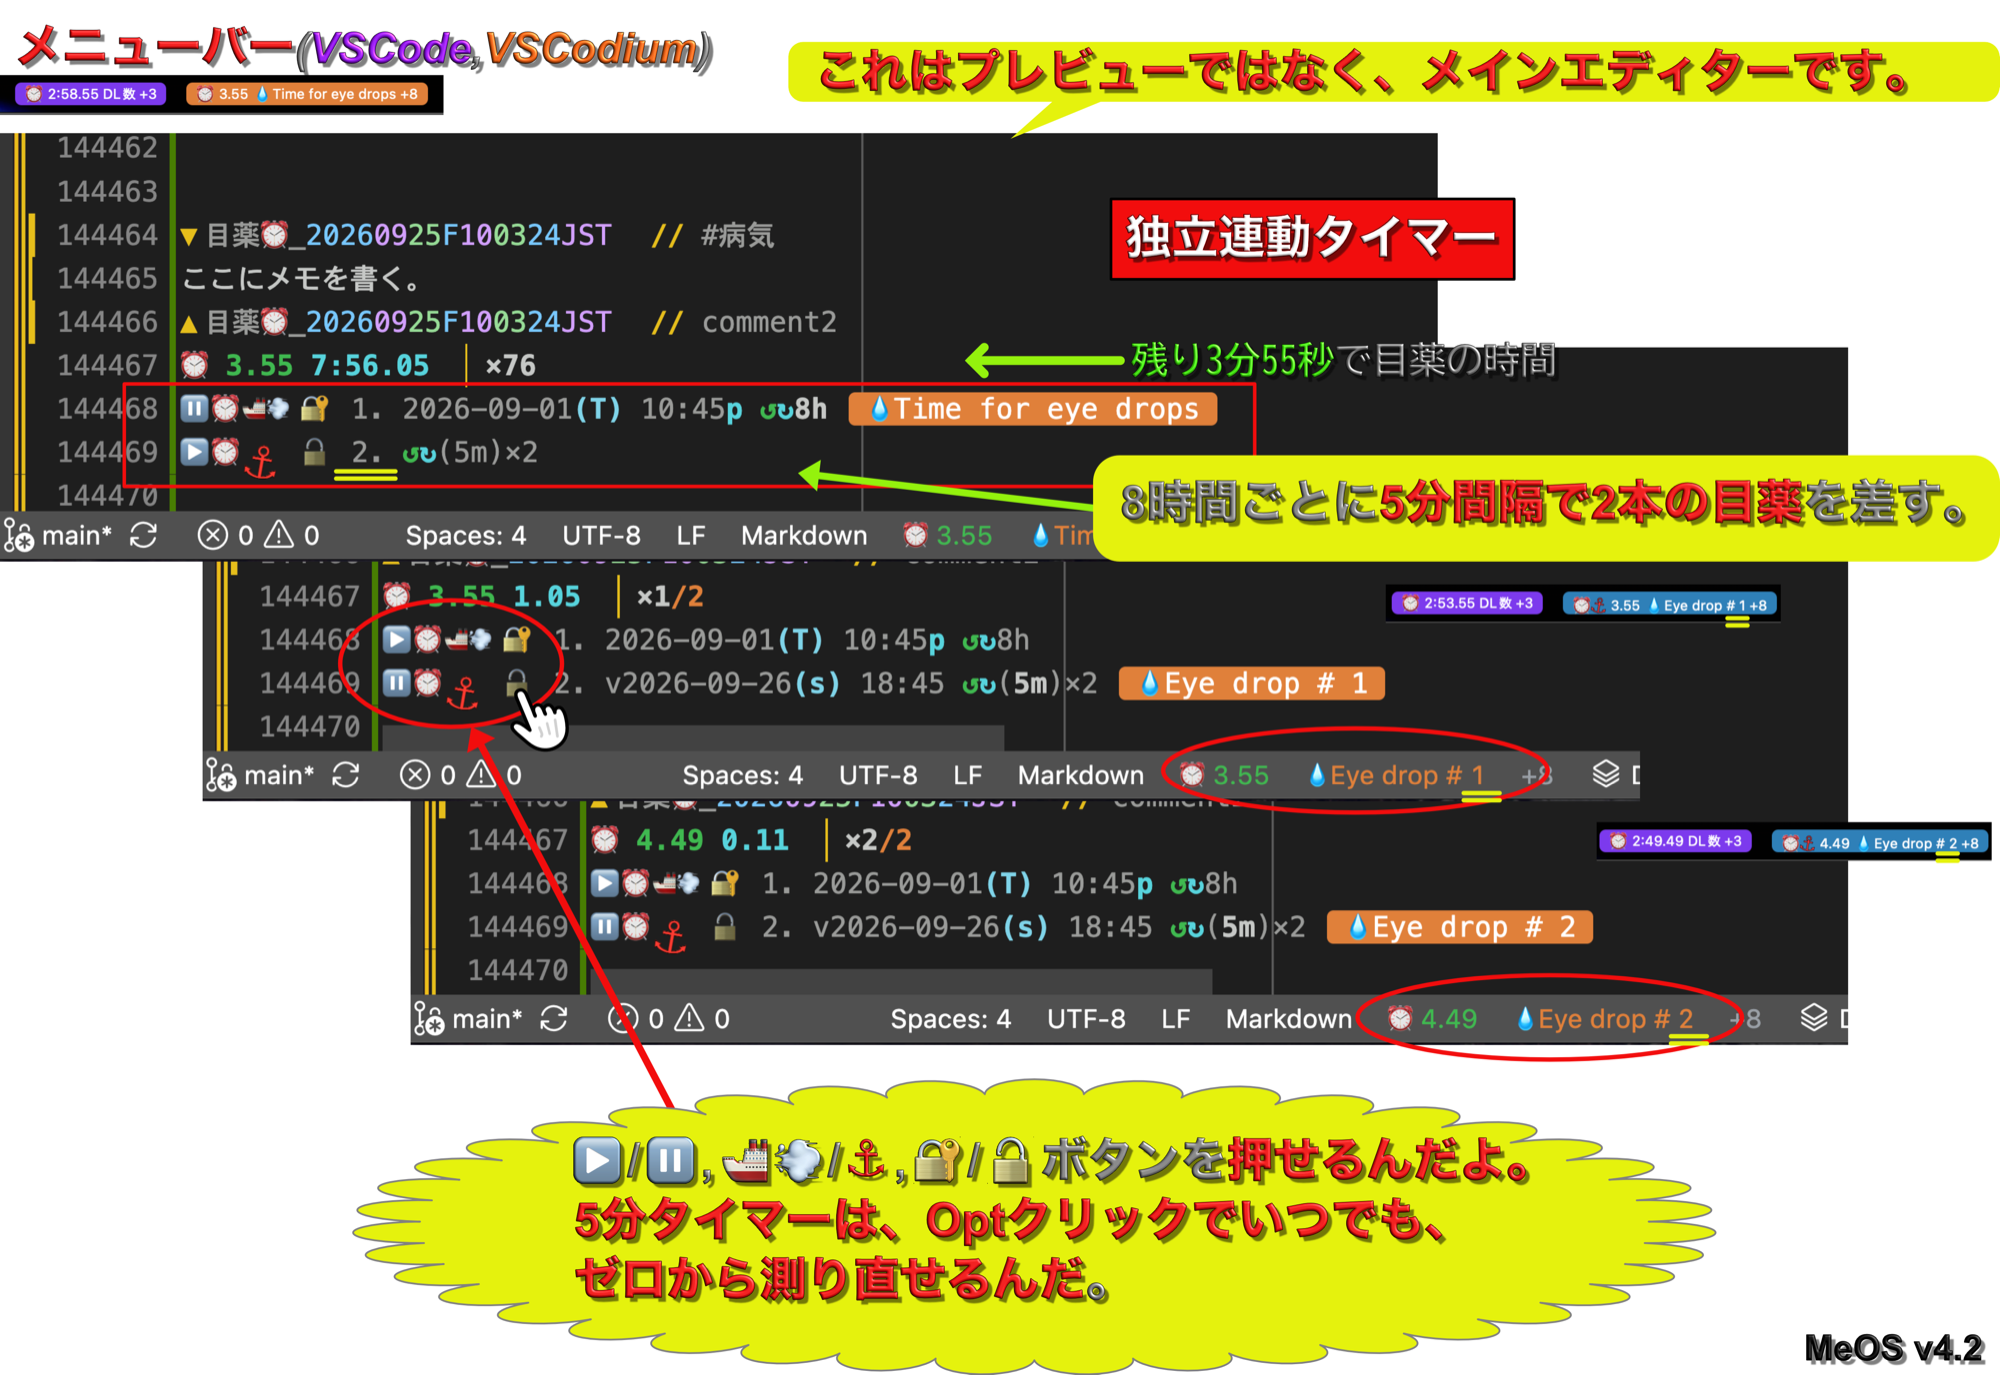
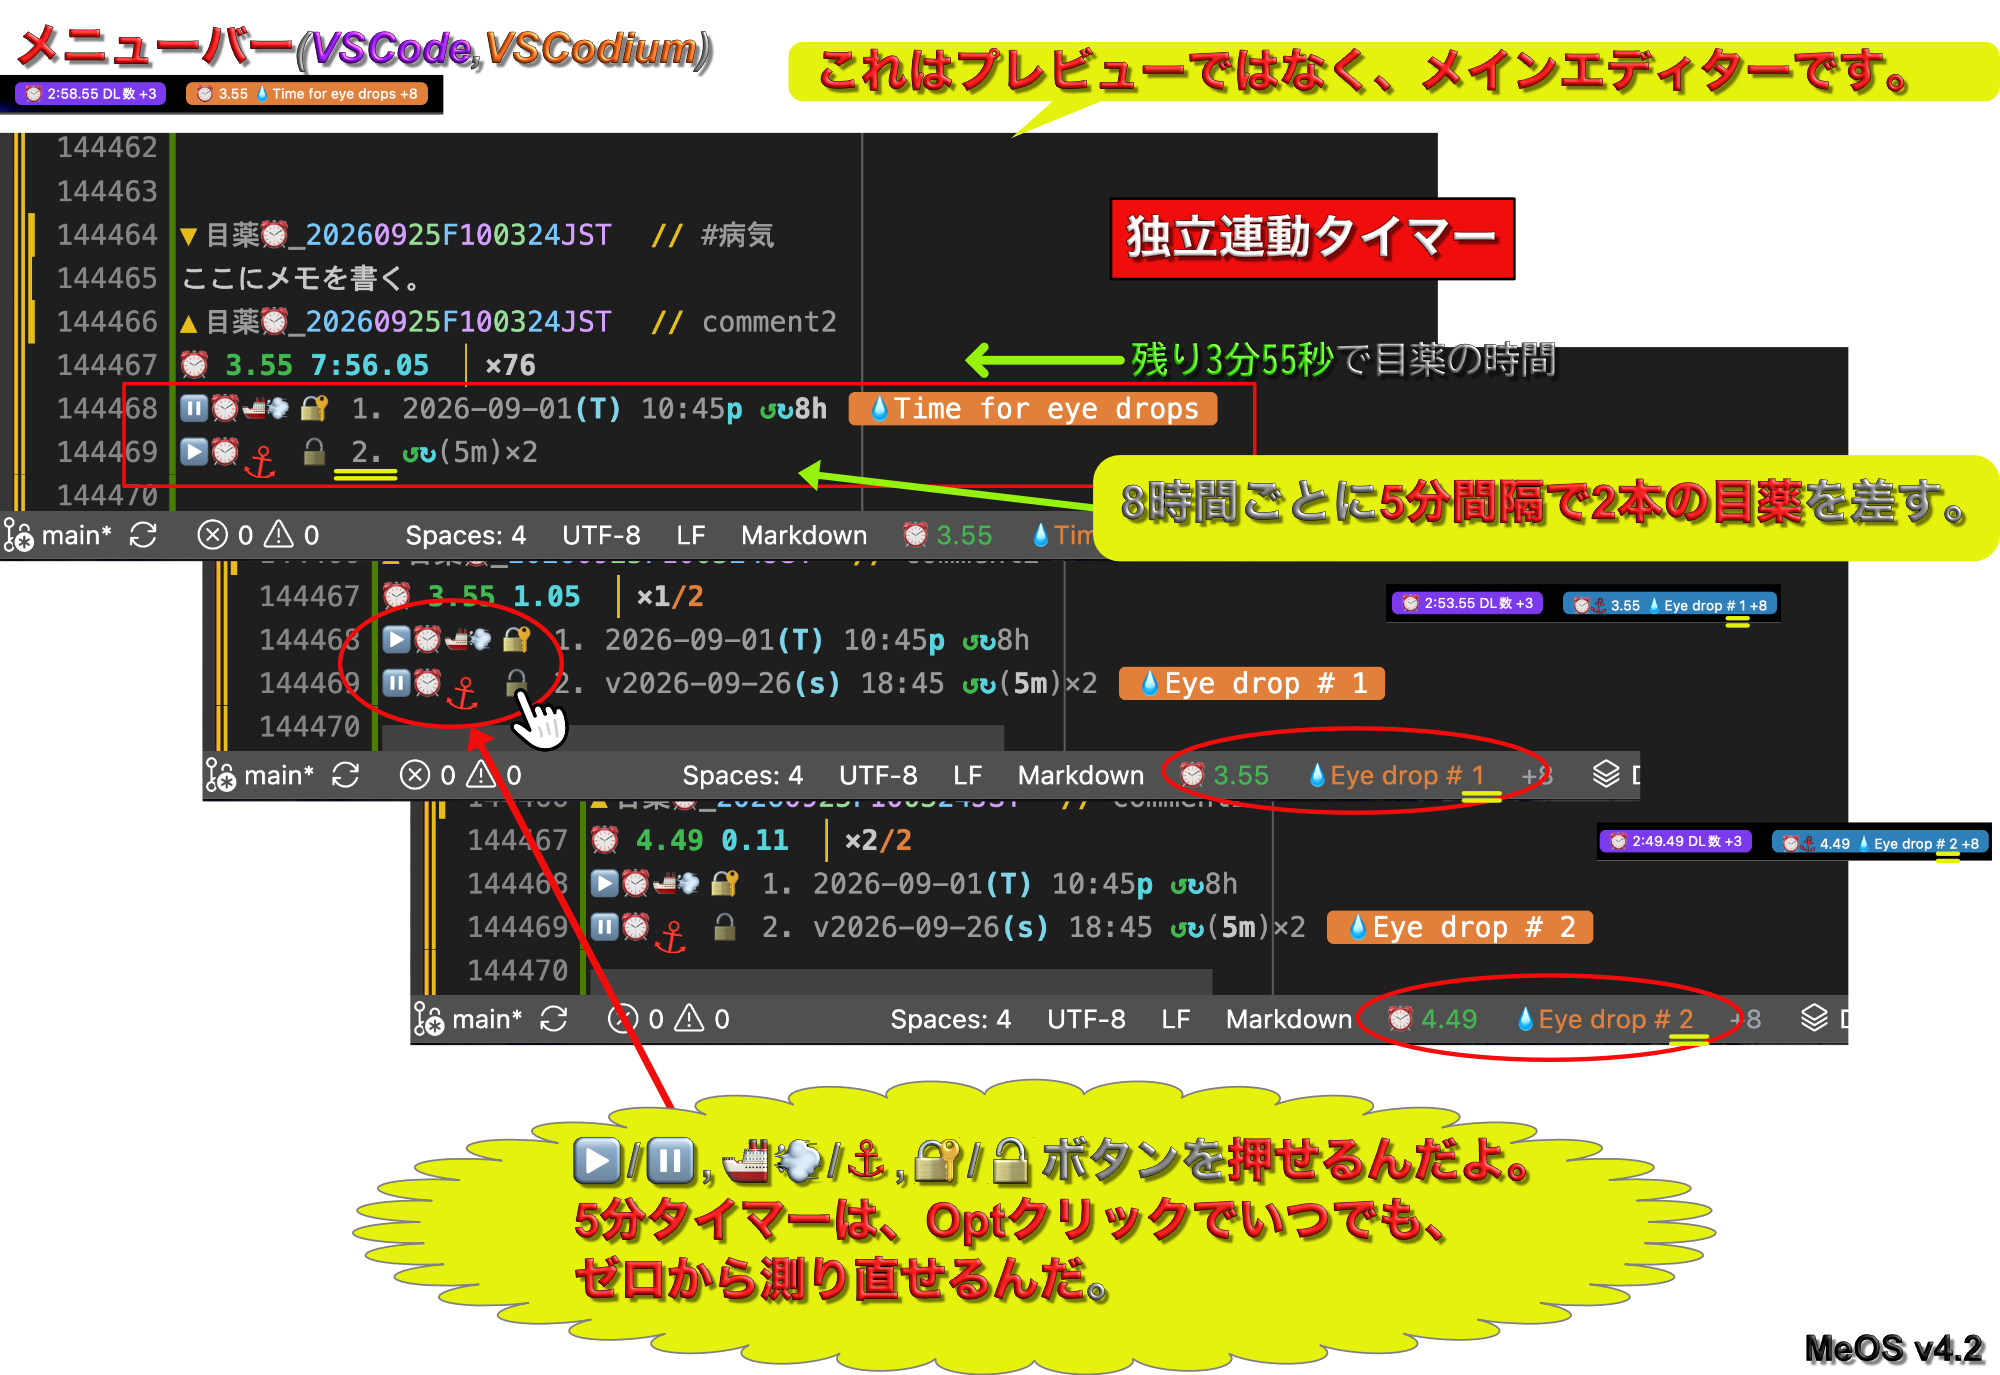
v4.2.463: CHANGELOG に v4.2.118〜462 の要点(ストアの Changes タブ)・ヒーロー#2 を俊克の 2000×1375 版に差し替え

diff --git a/CHANGELOG.md b/CHANGELOG.md
@@ -4,6 +4,81 @@ _Detailed per-version development notes. Moved here from README to keep the READ
 
 ## v4.2 era — highlights (2026-09 →)
 
+### v4.2.459 – v4.2.462 (2026-09-27, afternoon)
+- **⏭ Pass the next** at the top of the menu-bar ⏰ skips the next bell of the nearest clock without a sound: a repeat moves on to its next turn, the last turn of a `×N` or a one-off clock is marked done, a row hands over to its next line. **↩ last passed** brings it back while its time is still to come. It works with VSCodium closed too — V-helper moves on by itself, and VSCodium picks the pass up when it opens.
+- **The top of Me Dock stays put.** The title row and **Format Me** stay at the top while you scroll, and Format Me now sits above the ⏰ row, so opening the ⏰ panel no longer moves the buttons you use most. They follow Me Dock's size like everything else.
+- README: the v4.2 hero image, and the new features above.
+
+### v4.2.449 – v4.2.458 (2026-09-27, morning)
+- **A vertical line at the wrap width.** Changing the wrap width (the knob, or ↻ through the three presets) moves a thin line to the same column, so you can see where a line will break — Japanese text breaks at the same line, with about one character for every 1.7 half-width ones.
+- **Last bell drums.** Click the year, month or day of **Last bell** in the ⏰▾ panel and the same three drums as **Date** open under it. Roll them to the day the routine should end, and the count becomes the largest `×N` that does not run past it (the `~date` rule). **Opt** while rolling the year steps through the decades. Click the `×N` of Last bell to go to the count in the box, with its drum.
+- The count drum under the Repeat box follows `×N` when Last bell changes it.
+- `~date` also accepts an end date that has already gone by (it is compared with the origin, not with today).
+- **Set** adds the membrane's badge line when it is missing, so the countdown has its place.
+- Typing a date into **Starting point** now sets the origin, just as rolling the drums does.
+
+### v4.2.435 – v4.2.448 (2026-09-27, early morning)
+- **A bell for every time.** In a one-line routine, add `🔔` and a sound's name or its number in the 🔔 list after each `//` message: `🔔15/11/6` takes the next sound on every count, `🔕` keeps that time silent, and **Set** writes numbers down as names so the line rings the same on any machine. `🔔Mew×` announces the round when it starts — once for round 1, twice for round 2.
+- **🥊 Gong**, a new bell made from measurements of a real gong. The boxing preset uses it to start each round and stays silent inside the round.
+- Editing a ⏰ line by hand keeps its bells and messages; **Cmd+S** re-reads the clocks at once.
+- The Date drum no longer jumps to tomorrow when the panel opens.
+
+### v4.2.409 – v4.2.434 (2026-09-25 → 26)
+- **Three presets in the ⏰▾ panel**, stepped through with **↻** on the Repeat box: 🍅 Pomodoro (`(25m 5m)×4` then a `(10m)×1` break, handing over round and round), 💧 eye drops (every 8 hours, two drops 5 minutes apart — the second clock at ⚓ anchor) and 💓 an hour of boxing `((3m 1m)×5)×3`. One line in the box is one ⏰; the caret lands on the last `×N` with its drum.
+- **One message per time** in a one-line routine: `((25m 5m)×4 10m)×5 // 🍅… // ☕… // 🛋… // 🏁…`. A `1.` inside a title is a slot for the round number.
+- **Independent or linked.** A clock with an origin keeps its own time; only clocks without one hand over to each other.
+- The panel shows each line exactly as it will look in the editor, with its 🚢💨 / 🔓 buttons, and is laid out Starting point → Tag → Last bell → Repeat.
+- Fixed: a finished membrane folding by itself; the second line of a two-line preset not being written.
+
+### v4.2.363 – v4.2.408 (2026-09-24 → 25)
+- **V-helper**: the menu-bar ⏰ lives on when VSCodium is closed — it starts and quits the app like the Dock, and **Quit V-helper for VSCs** stops it for VS Code and VSCodium together. Each editor gets its own V-helper: **purple for VS Code, orange for VSCodium**.
+- **🔔 bell picker** beside the 🎨 Theme button (↑/↓ to hear, Enter to keep). **🐱 Mew**, a kitten's call made by MeOS from a real kitten's measurements, is the new default bell; it calls every 1.35 s with 1/f fluctuation in loudness.
+- **Roll ×N → last day** with the wheel in the ⏰▾ panel; a **count drum** (±10) appears under the Repeat box when the caret is after a `×`.
+- **read ⏰** reads the clock on the caret's line (title, number, ⚓ included) and **Set** rewrites that same line. Set is allowed only on a closing ▲ line or just below the ⏰ lines.
+- Strikethrough and highlight on a multi-line selection wrap each line.
+- **🐢 Paste lag ✅** shows when VSCodium's Markdown Language Features is already off for the workspace.
+
+### v4.2.339 – v4.2.362 (2026-09-24)
+- **Calendar repeats**: `↺t1,3` (first and third Thursday), `↺t` (every Thursday), `↺MWF`.
+- **The last day of a `×N` clock** is shown on the badge line (5 seconds after a change while running, all the time while paused).
+- **Date & Count**: write `~` and an end date instead of `×N`; MeOS writes back the largest `×N` that fits.
+- With VSCodium closed, linked clocks still hand over, and titles count up ("Eye drop # 2").
+- **Me Dock in ten sizes** (60–80 % in eight steps, then 90 % and 100 %) with a small `n/10` box; the **A** button shows whether it sizes Me Dock only or the text too.
+- **📦 Re-install VSIX** for everyone; **Reveal in Finder** from the recent-files list; a soft sound when Cmd+S has nothing to save.
+- Fixed: clicking the end of a very large membrane jumped to its top (fold regions over 5000).
+
+### v4.2.304 – v4.2.338 (2026-09-23)
+- **The menu-bar ⏰ keeps working after you close VSCodium** (the first V-helper): it counts, rings, and when a bell is due it wakes VSCodium and warps you to the membrane.
+- **⚓ Anchor**: a clock that rings without taking you to its membrane. Each ⏰ line has a 🚢💨 / ⚓ button; the menu bar turns blue while an anchored clock is next.
+- **Opt+click** the menu-bar ⏰ to go to the membrane it shows; **last stopped** brings back the clock you stopped last; the menu lists your **Tag & Go** rooms.
+- A classic macOS hand tilted 22.5° joins the pointer choices (BTRON, macOS 22.5°, OS).
+- Undoing a select-all cut puts the bookmarks (F · 🔖 · 💤 · 🏠) back on their lines.
+
+### v4.2.254 – v4.2.303 (2026-09-20 → 21)
+- **Code blocks on a sheet of paper**: a fenced code block is drawn as one cream sheet, like `inline code`, so quoted notation stays text and is never run.
+- **Quotes like a book** (indent, large quotation marks, the source aligned right) and **GitHub Alerts** (`> [!TIP]` …) in a light box.
+- 🔐 can be removed with **Opt+click**, and a stopped clock really stops.
+
+### v4.2.216 – v4.2.253 (2026-09-19)
+- **`inline code` on a cream plate**; a file name in inline code gets a 📄 tag.
+- **🔓 → 🔐 lock** on a ⏰ line: it can be neither stopped nor deleted until it rings.
+- **🎨 Theme button** in Me Dock: ↑/↓ to try a colour theme, Enter to keep it.
+- The first row of Me Dock reads **Timed Me-System: ⏰ … Hyper TOC: 📑**; H-TOC opens and closes in place and starts closed.
+- Format Me tips appear in full for 20 minutes after their first showing each day, then stay short.
+
+### v4.2.185 – v4.2.215 (2026-09-18)
+- **Running clocks on the macOS menu bar**, with a menu to warp to any clock, the spells (Raw on/off, Me Dock, previous/next heading).
+- The ⏰ title is shown in the status bar in its own colour, split from the countdown and the `+N`.
+- ✅ at the head of a heading or list item is stamped again, and list items gather their FC lines like tables.
+- Wrap-width knob: finer control, default presets 48 / 80 / 100.
+
+### v4.2.118 – v4.2.184 (2026-09-15 → 17)
+- **Your own pointing hands**: BTRON and classic macOS hands (pointing, open palm, grip) drawn for MeOS, at the size of the OS pointer, with the hot spot where the finger points.
+- **Drag H-TOC tabs** to reorder them (palm to press, grip to move, a white line where the tab will land).
+- **Wrap width knob** in Me Dock: drag or type, the text re-wraps as you move; **↻** steps through three presets (red, blue, green).
+- **Bird-EV** handles membranes with hundreds of headings and folds child membranes to one line.
+- Only the running ⏰ shows its title on the line; tips grow from the pointer everywhere in Me Dock.
+
 ### v4.2.117 (2026-09-15)
 - **Each hand has its own button colour.** The pointer-hand switch stays cyan for the BTRON hand, turns Aqua blue for the classic macOS hand, and neutral grey for "OS" (the hand differs from one operating system to the next).
 
